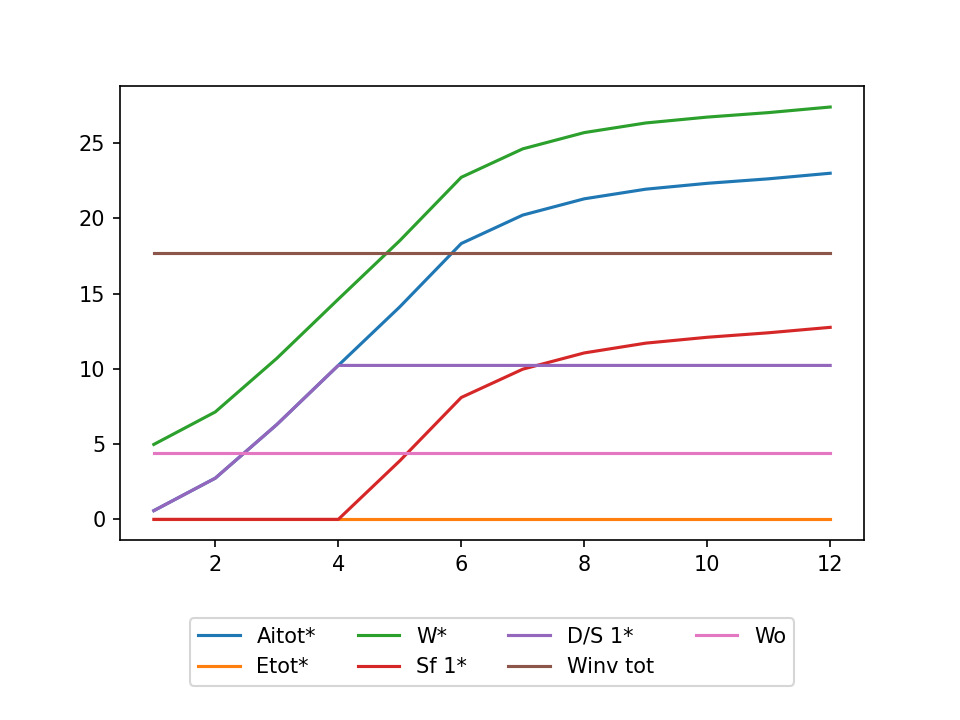
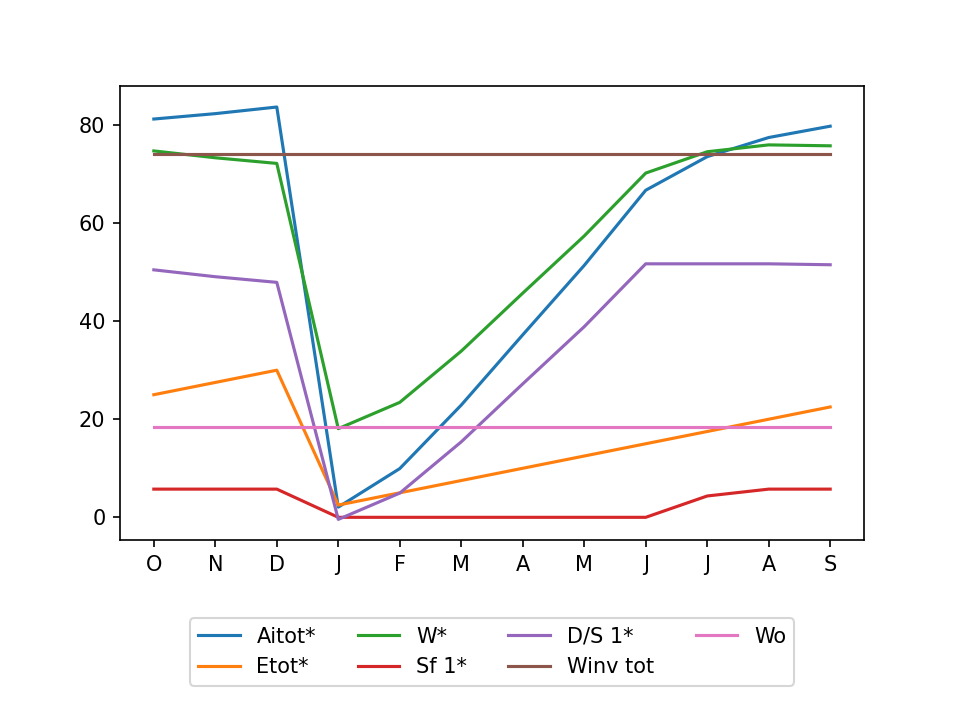
Changed the graph x-axis to display only the initial letter of the month

diff --git a/invasi-app/utilities.py b/invasi-app/utilities.py
@@ -139,19 +139,50 @@ def get_user_files():
 def get_json(filename_selected):
     return db.session.execute(db.select(JsonFile.json_data).filter_by(filename=filename_selected)).scalar()
 
+import matplotlib.pyplot as plt
+
+import matplotlib.pyplot as plt
+
+import matplotlib.pyplot as plt
+
 def plot_values(_label, _data, _name):
-    print("Plotting: " +_name)
+    print("Plotting: " + _name)
     ldata = _data.copy()
-    x = range(1, 13)
+    
+    # Define full month names and their corresponding indices
+    full_months = [
+        "January", "February", "March", "April", "May", "June", 
+        "July", "August", "September", "October", "November", "December"
+    ]
+    short_months = [m[0] for m in full_months]  # Extract first letter of each month
+    month_index = {m: i for i, m in enumerate(full_months)}
+
+    # Get starting month from "Mese di partenza"
+    start_month = ldata.get("Mese di partenza", "January")  # Default to "January" if missing
+    start_idx = month_index.get(start_month, 0)  # Get index of start month
+
+    # Rotate month labels and initials
+    rotated_short_months = short_months[start_idx:] + short_months[:start_idx]
+    x = range(1, 13)  # Keep x-axis as 1-12
+
     for d in _label:
-        if (isinstance(ldata[d], float) == True):
-            ldata[d] = [ldata[d]]*12
-        plt.plot(x, ldata[d], label=d)
-    # `ncol` controls the number of columns in the legend
+        if isinstance(ldata[d], float):
+            ldata[d] = [ldata[d]] * 12
+        elif isinstance(ldata[d], list) and len(ldata[d]) < 12:
+            ldata[d] += [ldata[d][-1]] * (12 - len(ldata[d]))  # Extend if too short
+
+        # Rotate the data values to match the shifted months
+        rotated_values = ldata[d][start_idx:] + ldata[d][:start_idx]
+        plt.plot(x, rotated_values[:12], label=d)
+
+    plt.xticks(x, rotated_short_months)  # Display only initials
     plt.legend(loc="upper center", bbox_to_anchor=(0.5, -0.15), ncol=4)
-    plt.subplots_adjust(bottom=0.25)  # Add space at the bottom for the legend
+    plt.subplots_adjust(bottom=0.25)  # Adjust bottom margin
     plt.savefig(f"static/{_name}_plot.png", format='png', dpi=150)
     plt.close()
+
+
+
 
 
 def somma_cumulata(_var):

diff --git a/invasi-app/app.py b/invasi-app/app.py
@@ -34,20 +34,20 @@ def create_app(config_class=DevelopmentConfig):
     return app
 
 ##Debugging
-if __name__ == "__main__":
-    app = create_app()
-
-    # Only for initial setup (remove if using Flask-Migrate)
-    with app.app_context():
-        db.create_all()
-
-    app.run(debug=True)
-
-# Production
 #if __name__ == "__main__":
 #    app = create_app()
-#    
+#
+#    # Only for initial setup (remove if using Flask-Migrate)
 #    with app.app_context():
 #        db.create_all()
 #
-#    app.run(host="0.0.0.0", port=8080, debug=True)
+#    app.run(debug=True)
+
+# Production
+if __name__ == "__main__":
+    app = create_app()
+    
+    with app.app_context():
+        db.create_all()
+
+    app.run(host="0.0.0.0", port=8080, debug=True)
